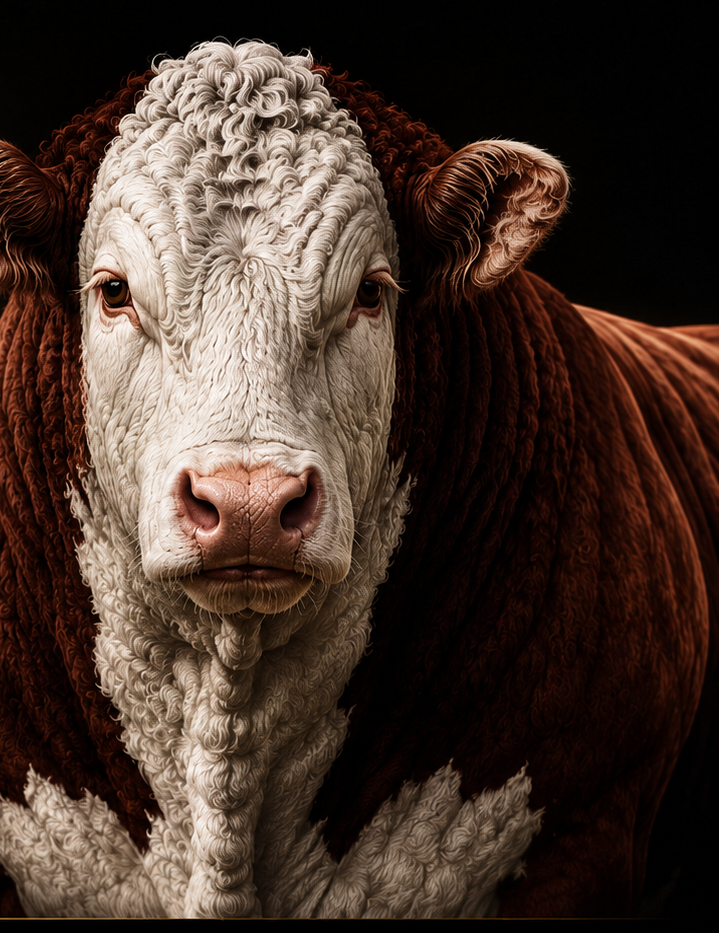
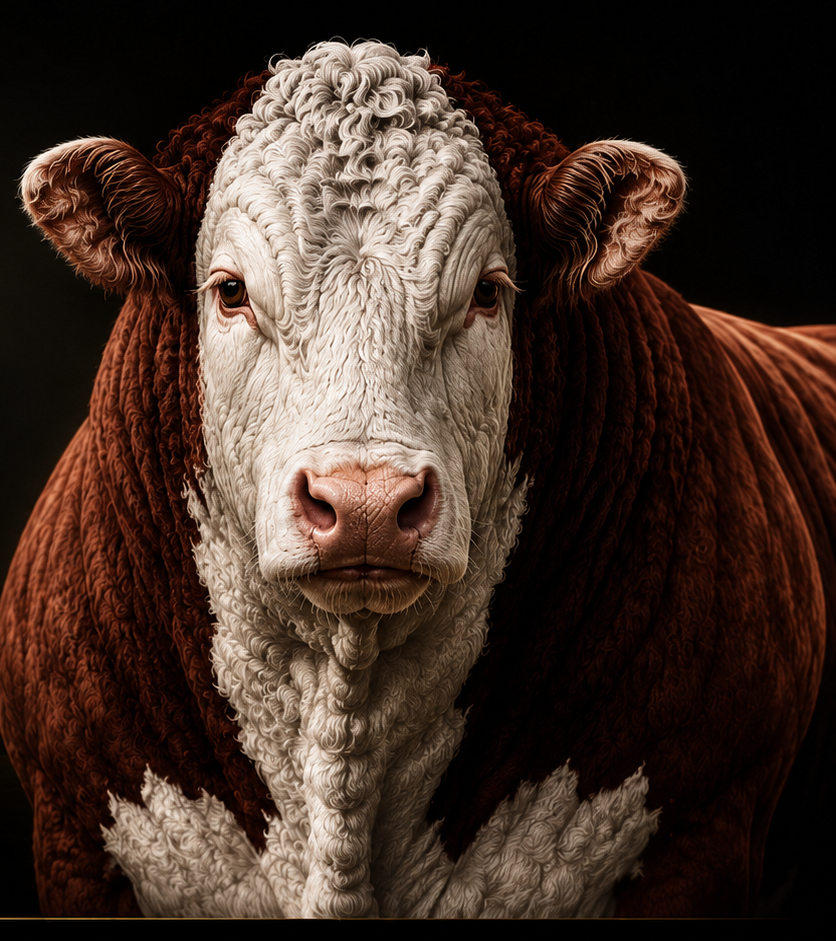
Refine PDF cover framing and drop redundant brand text and fake data
Fixes the report cover photo to use a true contain-fit crop (full head,
ears and nose visible, no stretching) with a smooth canvas-rendered
gradient blending it into the black panel, removes the standalone
"Wolf Agricultura e Pecuária" text from the dashboard hero and cover
page now that the Responsavel Tecnica badge carries that context, and
deletes the auto-seeded fake Alambrado service records.

diff --git a/app.js b/app.js
@@ -4378,7 +4378,6 @@ function renderHomeView() {
   el.innerHTML = `
     <div class="home-hero">
       <div class="home-hero-copy">
-        <p class="eyebrow home-hero-brand">Wolf Agricultura e Pecuária</p>
         <h2 class="home-hero-title">Painel Pecuário</h2>
         <p class="home-hero-farm">${escapeHtml(farmContext)}</p>
         <div class="tech-credential tech-credential-compact">
@@ -10472,6 +10471,51 @@ function drawPdfPastureBackground(doc) {
   doc.line(0, height * 0.63, width, height * 0.63);
 }
 
+// Fits an image inside a box without stretching it (like CSS object-fit:
+// contain), aligning it against one edge on whichever axis has leftover
+// space instead of centering it there.
+function fitImageContain(doc, imageDataUrl, box, hAlign = "center") {
+  const { width: srcW, height: srcH } = doc.getImageProperties(imageDataUrl);
+  const srcAspect = srcW / srcH;
+  const boxAspect = box.w / box.h;
+  let drawW;
+  let drawH;
+  if (srcAspect > boxAspect) {
+    drawW = box.w;
+    drawH = box.w / srcAspect;
+  } else {
+    drawH = box.h;
+    drawW = box.h * srcAspect;
+  }
+  const drawY = box.y + (box.h - drawH) / 2;
+  let drawX = box.x + (box.w - drawW) / 2;
+  if (hAlign === "right") drawX = box.x + (box.w - drawW);
+  if (hAlign === "left") drawX = box.x;
+  return { drawX, drawY, drawW, drawH };
+}
+
+// Renders linear-gradient(to right, #000 0%, rgba(0,0,0,.75) 15%, transparent 45%)
+// as an offscreen canvas and drops it in as a PNG overlay, so the left edge
+// of the cover photo blends into the black panel instead of showing a hard
+// seam. A canvas gradient is used (rather than stacking translucent jsPDF
+// rects) because adjacent semi-transparent rects visibly band/seam in PDF
+// viewers — a real gradient raster doesn't.
+function drawLeftEdgeFade(doc, x, y, w, h) {
+  const fadeWidth = w * 0.45;
+  const scale = 3;
+  const canvas = document.createElement("canvas");
+  canvas.width = Math.max(2, Math.round(fadeWidth * scale));
+  canvas.height = Math.max(2, Math.round(h * scale));
+  const ctx = canvas.getContext("2d");
+  const gradient = ctx.createLinearGradient(0, 0, canvas.width, 0);
+  gradient.addColorStop(0, "rgba(6, 6, 6, 1)");
+  gradient.addColorStop(0.15 / 0.45, "rgba(6, 6, 6, 0.75)");
+  gradient.addColorStop(1, "rgba(6, 6, 6, 0)");
+  ctx.fillStyle = gradient;
+  ctx.fillRect(0, 0, canvas.width, canvas.height);
+  doc.addImage(canvas.toDataURL("image/png"), "PNG", x, y, fadeWidth, h);
+}
+
 async function appendPdfCoverPage(doc, farms, periodLabel, reportSubtitle = "Relatório Pecuário") {
   const { width, height } = getPdfPageSize(doc);
   const scopeLabel = farms.length === 1
@@ -10486,7 +10530,14 @@ async function appendPdfCoverPage(doc, farms, periodLabel, reportSubtitle = "Rel
   const imageW = width - imageX;
   try {
     const coverImage = await loadAssetAsDataUrl(PDF_COVER_IMAGE_PATH);
-    doc.addImage(coverImage, "JPEG", imageX, 0, imageW, height);
+    const { drawX, drawY, drawW, drawH } = fitImageContain(
+      doc,
+      coverImage,
+      { x: imageX, y: 0, w: imageW, h: height },
+      "right"
+    );
+    doc.addImage(coverImage, "JPEG", drawX, drawY, drawW, drawH);
+    drawLeftEdgeFade(doc, drawX, drawY, drawW, drawH);
   } catch (error) {
     console.warn("Não foi possível carregar a imagem da capa do PDF.", error);
   }
@@ -10507,9 +10558,6 @@ async function appendPdfCoverPage(doc, farms, periodLabel, reportSubtitle = "Rel
   doc.setFontSize(13);
   doc.setTextColor(215, 215, 215);
   doc.text(reportSubtitle, left, 91);
-  doc.setFontSize(9);
-  doc.setTextColor(197, 167, 74);
-  doc.text("Wolf Agricultura e Pecuária", left, 101);
 
   doc.setDrawColor(197, 167, 74);
   doc.setLineWidth(0.6);
@@ -11989,6 +12037,17 @@ function ensureDataShape(data, options = {}) {
   ["fazenda-01", "fazenda-02", "fazenda-03"].forEach((legacyId) => {
     delete data.farms[legacyId];
   });
+
+  // One-time cleanup: Alambrado used to auto-seed 30 fake service records
+  // on first load. Wipe any that slipped in before that seeding was removed.
+  if (!data.alambradoDemoRecordsCleared) {
+    Object.values(data.farms).forEach((farm) => {
+      if (Array.isArray(farm.alambradoRecords)) {
+        farm.alambradoRecords = [];
+      }
+    });
+    data.alambradoDemoRecordsCleared = true;
+  }
 
   Object.entries(seedData.farms).forEach(([farmId, farmTemplate]) => {
     if (!data.farms[farmId]) {

diff --git a/alambrado.js b/alambrado.js
@@ -1691,82 +1691,7 @@ document.getElementById("albSaveChartsBtn").addEventListener("click", saveAlambr
 
 /* ── Dados de demonstração ─────────────────────────────────────────── */
 
-function seedAlambradoDemoRecords() {
-  const farms = getAllFarms();
-  if (!farms.length) return;
-
-  const already = farms.reduce((sum, farm) => sum + getAlambradoRecords(farm).length, 0);
-  if (already > 0) return;
-
-  const observacoesPool = [
-    "Manutenção preventiva realizada conforme cronograma.",
-    "Substituição de trecho danificado por queda de árvore.",
-    "Reforço solicitado após identificação de fuga de animais.",
-    "Serviço executado em parceria com equipe terceirizada.",
-    "Ajuste realizado durante rotina de manejo do potreiro.",
-    "Reparo emergencial após temporal na região.",
-    "Melhoria estrutural para divisão de novo lote.",
-    ""
-  ];
-
-  const seedableTypes = ALAMBRADO_SERVICE_TYPES.filter((t) => t.id !== "outros");
-  const today = new Date();
-  let seeded = 0;
-  let farmIndex = 0;
-  let guard = 0;
-
-  while (seeded < 30 && guard < 500) {
-    guard++;
-    const farm = farms[farmIndex % farms.length];
-    farmIndex++;
-
-    const potreiros = getPotreroEntries(farm);
-    const potreiro = potreiros.length ? potreiros[Math.floor(Math.random() * potreiros.length)] : null;
-    const tipo = seedableTypes[Math.floor(Math.random() * seedableTypes.length)];
-    const monthsAgo = Math.floor(Math.random() * 14);
-    const date = new Date(today.getFullYear(), today.getMonth() - monthsAgo, 1 + Math.floor(Math.random() * 27));
-    const quantidade = tipo.medida === "metro"
-      ? Math.round((40 + Math.random() * 460) / 5) * 5
-      : Math.max(1, Math.round(1 + Math.random() * 9));
-    const valorUnitario = tipo.valorUnitario;
-    const valorTotal = computeAlambradoValorTotal(quantidade, valorUnitario);
-    const observacoes = observacoesPool[Math.floor(Math.random() * observacoesPool.length)];
-    const hasDemoPhoto = seeded % 4 === 0;
-
-    getAlambradoRecords(farm).push({
-      id: createMovementId(),
-      codigo: generateAlambradoCode(farm),
-      farmId: farm.id,
-      potreiroId: potreiro ? potreiro.id : "",
-      potreiroName: potreiro ? potreiro.name : "",
-      tipoServicoId: tipo.id,
-      tipoServicoLabel: tipo.label,
-      medida: tipo.medida,
-      quantidade,
-      valorUnitario,
-      valorTotal,
-      data: date.toISOString().slice(0, 10),
-      observacoes,
-      anexos: hasDemoPhoto ? [{
-        id: createMovementId(),
-        nome_arquivo: "cerca-executada.png",
-        tipo_arquivo: "imagem",
-        url: "./assets/alambrado-demo-1.png",
-        tamanho: 365219,
-        createdAt: new Date().toISOString()
-      }] : [],
-      createdAt: new Date().toISOString(),
-      updatedAt: new Date().toISOString()
-    });
-    seeded++;
-  }
-
-  saveData();
-}
-
 /* ── Inicialização ─────────────────────────────────────────────────── */
-
-seedAlambradoDemoRecords();
 
 if (isAuthenticated()) {
   render();

diff --git a/styles.css b/styles.css
@@ -470,12 +470,6 @@ body::before {
   margin: 0 0 6px;
 }
 
-.home-hero-brand {
-  font-size: 0.86rem;
-  letter-spacing: 0.16em;
-  color: var(--sand-deep);
-}
-
 .tech-credential-compact {
   margin-top: 10px;
   padding: 6px 14px;
@@ -1576,31 +1570,6 @@ body::before {
 .hero h1 {
   font-size: clamp(2.7rem, 4vw, 4.6rem);
   max-width: 11ch;
-}
-
-.brand-wordmark {
-  display: flex;
-  flex-direction: column;
-  gap: 6px;
-}
-
-.brand-wordmark .wm-main {
-  font-family: "Yrsa", serif;
-  font-weight: 700;
-  letter-spacing: 0.01em;
-  background: linear-gradient(135deg, #96692a 0%, #e8c874 42%, #96692a 100%);
-  -webkit-background-clip: text;
-  background-clip: text;
-  color: transparent;
-}
-
-.brand-wordmark .wm-sub {
-  font-family: "Manrope", sans-serif;
-  font-weight: 800;
-  font-size: 0.94rem;
-  letter-spacing: 0.26em;
-  text-transform: uppercase;
-  color: var(--sand-deep);
 }
 
 .tech-credential {

diff --git a/index.html b/index.html
@@ -197,7 +197,6 @@
               </div>
             </div>
             <p class="eyebrow">Gestão do rebanho</p>
-            <h1 class="brand-wordmark"><span class="wm-main">Wolf</span><span class="wm-sub">Agricultura e Pecuária</span></h1>
             <div class="tech-credential">
               <span class="tech-credential-label">Responsável Técnica</span>
               <strong class="tech-credential-name">Bruna Castro</strong>
